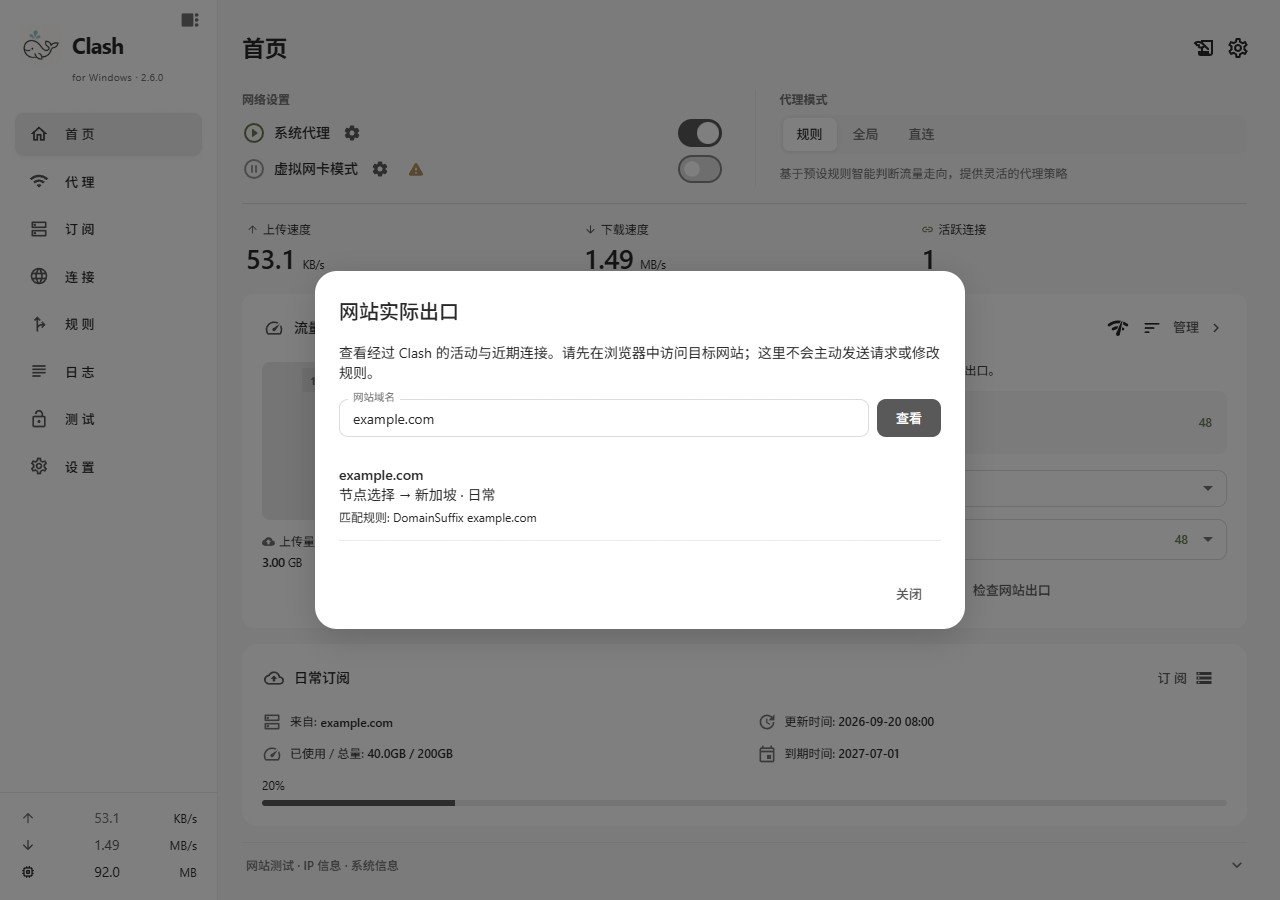
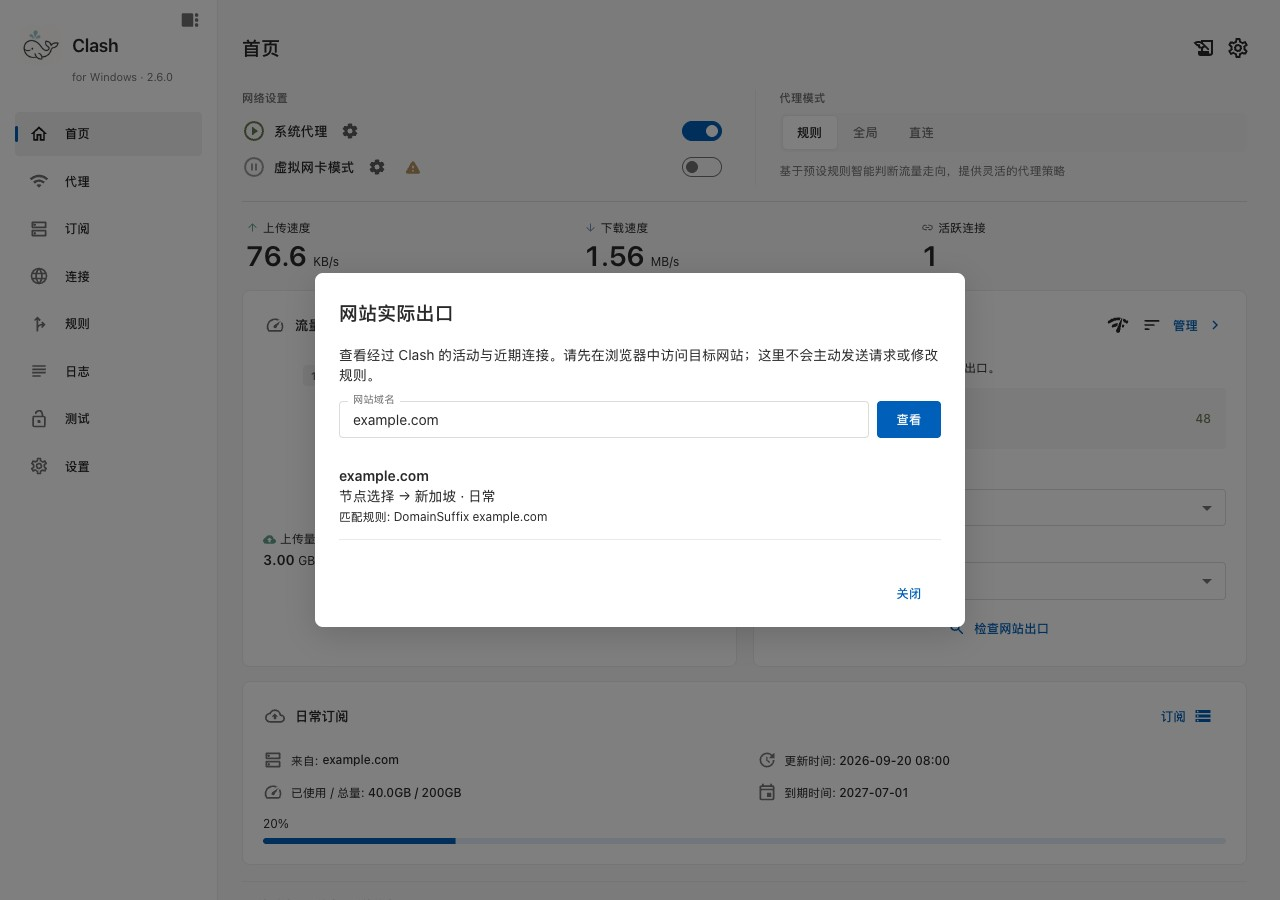
docs: refresh screenshots and docs for the Windows 11 visual pass
- Regenerate the four README/doc previews with the UI fixture runner,
  rendered as the Windows build.
- Describe the accent colour, selection pill, unified controls and the
  idle-polling/lazy-loading behaviour in README, usage and ui-design.
- Add a changelog entry and a verification record, and note how to
  render Windows screenshots from macOS.
- Scope the runner's mode-button locators: the "规则" nav label no
  longer has a space and now shares its accessible name.

diff --git a/README.md b/README.md
@@ -7,18 +7,20 @@
 
 ## Windows 2.6.0
 
-本版将仓库 `clash-mac` 分支 2.9.7 的页面设计带到 Windows：同一只线稿白鲸、同一套双白与炭黑主题，保留 Windows 原生窗口操作与现有代理能力。
+本版将仓库 `clash-mac` 分支 2.9.7 的页面设计带到 Windows：同一只线稿白鲸、同一套双白与炭黑主题，保留 Windows 原生窗口操作与现有代理能力。界面按 Windows 11 规范统一：开启、选中与主操作使用系统默认蓝色强调色，控件 4px、卡片与弹窗 8px 圆角，开关与分段控件全局一致。
 
 | 页面 | 使用体验 |
 | --- | --- |
 | 首页 | 系统代理、TUN 与路由模式置顶；实时速度、关注代理组和流量趋势组成工作台；诊断信息按需展开。 |
-| 代理 | 紧凑节点列表，切换中与选中状态明确；测速直接可用，搜索、排序和测速地址集中在更多菜单。 |
+| 代理 | 紧凑节点列表，选中节点带强调色竖条，切换中状态明确；测速直接可用，搜索、排序和测速地址集中在更多菜单。 |
 | 订阅 | 展示使用状态、流量和到期信息；高级覆写与脚本折叠收纳，原有编辑与更新功能保留。 |
 | 设置 | 通用、外观、网络、备份、高级五分类；搜索跨分类查找，Windows UWP 工具等入口继续保留。 |
 | 连接与规则 | 保持清晰表格和虚拟列表，统一工具栏、分隔线、字体与深浅色表面。 |
 | 图标与安装 | 应用、托盘、安装器、桌面与开始菜单使用统一白鲸图标；覆盖升级刷新已有快捷方式图标。 |
 
-网站出口查看只读取已有连接记录；关注的代理组不代表所有网站的出口。流量图可隐藏或切换低饱和彩色/单色，隐藏后仍显示实时速度和累计用量。
+网站出口查看只读取已有连接记录；关注的代理组不代表所有网站的出口。流量图可隐藏或切换低饱和彩色/单色，隐藏后仍显示实时速度和累计用量；上传与下载在侧栏、指标和图表中使用同一组配色。
+
+窗口隐藏到托盘时暂停界面定时刷新与实时订阅；首页以外的页面按需加载，规则列表只在规则页或诊断卡片打开时读取。
 
 快捷键：`Ctrl+,` 打开设置，`Ctrl+1–8` 按当前导航顺序切换页面，`Ctrl+B` 折叠侧栏。输入框、编辑器和弹窗内不会抢占这些快捷键。
 

diff --git a/docs/usage.md b/docs/usage.md
@@ -10,7 +10,7 @@
 
 ## 首页与快捷操作
 
-首页上方可直接切换系统代理、TUN 与规则/全局/直连模式。实时指标持续显示；窗口较窄时，关注的代理组排在流量趋势之前。底部诊断区默认折叠，展开后才加载测试、IP 与系统信息。原有首页显示偏好继续生效。
+首页上方可直接切换系统代理、TUN 与规则/全局/直连模式。实时指标持续显示；首页已显示速度与内存时，侧栏底部的速度读数自动隐藏，其他页面照常显示。窗口较窄时，关注的代理组排在流量趋势之前。底部诊断区默认折叠，展开后才加载测试、IP 与系统信息。原有首页显示偏好继续生效。
 
 “检查网站出口”只筛选已有连接记录：先访问目标网站，再输入域名查看代理链与匹配规则。没有记录不能判断为直连；该入口不会请求网站或修改规则。
 
@@ -24,7 +24,7 @@
 
 ## 状态颜色
 
-中性深灰（深色主题为浅灰）表示主要操作与当前选中；绿色表示成功或较快延迟；黄色表示警告或中等延迟；红色表示错误或较慢延迟；灰色表示未知或尚未测速。实际失败、超时判断沿用原有业务逻辑。
+蓝色强调色（Windows 11 默认强调色，深色主题为浅蓝）表示已开启、当前选中与主要操作，选中的导航和节点左侧有一条蓝色竖条；正文与图标保持中性灰。绿色表示成功或较快延迟；黄色表示警告或中等延迟；红色表示错误或较慢延迟；灰色表示未知或尚未测速。实际失败、超时判断沿用原有业务逻辑。
 
 ## 外观与无障碍
 
@@ -43,6 +43,8 @@
 **为何更新后界面恢复原版？** 自动更新配置仍属于上游。本分支目前使用自己的安装包手动更新，自有更新签名发布流程尚未建立。
 
 **为什么浏览器预览没有代理数据？** 真实数据来自 Tauri 与 Mihomo。文档截图使用明确标注的演示数据；日常运行请使用桌面版本。
+
+**窗口隐藏到托盘后还会占用资源吗？** 窗口不可见时，界面会暂停定时刷新与实时流量订阅，重新显示后自动恢复；规则列表与运行时长只在对应页面或卡片打开时才加载。需要进一步降低常驻占用时，可使用首页右上角的轻量模式。
 
 ## 首次启动时开启系统代理
 

diff --git a/docs/windows-build.md b/docs/windows-build.md
@@ -67,6 +67,14 @@ pnpm build:fast --no-open
 
 验证覆盖浅色/深色、常规/800×600 窗口和页面交互；截图保存到 `target/ui-review/`。Windows 原生窗口、安装升级、真实重启与不同系统版本需另行实机验证，浏览器预览不替代这些测试。
 
+运行器同时会重新生成 `docs/preview_light.jpg`、`preview_dark.jpg`、`preview_settings.jpg` 与 `preview_dialog.jpg`。平台由 User-Agent 与构建时的 `OS_PLATFORM` 共同判断，因此在 macOS 上运行时界面会显示 “for Mac” 并改用 ⌘ 快捷键，导致快捷键断言失败；生成文档截图需以 Windows 平台渲染（开发服务器将 `OS_PLATFORM` 设为 `"win32"`，浏览器上下文使用 Windows User-Agent）。
+
+## 视觉与性能优化验证记录（2026-10-19）
+
+- TypeScript、ESLint、knip、17 项前端测试与 5 项构建测试通过。
+- 隔离 UI 运行器全部通过（8 页 × 2 主题 × 2 尺寸，含 200% DPI 与减少动态效果），并重新生成四张文档截图；本次在 macOS 上以 Windows 平台渲染完成，未在 Windows 实机上重新验收。
+- 生产构建入口包约 603 KB（此前约 1.05 MB）。
+
 ## 2.6.0 验证记录（2026-09-20）
 
 - TypeScript、ESLint、17 项前端测试、5 项构建/ICO 测试通过，包含过期 NotRunning 快照的代理开关回归。

diff --git a/docs/ui-design.md b/docs/ui-design.md
@@ -32,6 +32,14 @@
 
 网站出口查看只筛选当前活动/近期连接，不修改规则，不发起网站请求；没有记录不能推断为直连。流量图配色为本地前端偏好，默认低饱和彩色，不修改 verge.yaml 或 Mihomo 配置格式。
 
+## 性能约定
+
+- 轮询以窗口可见性为准：WebView 在窗口隐藏到托盘后仍可能报告页面可见，因此由共享的可见性状态（`src/hooks/use-visibility.ts`）统一判断，SWR 定时刷新在不可见时跳过。
+- 全局数据提供者只保留代理视图、内核配置、系统代理与运行状态；规则、规则 Provider 与运行时长由使用它们的页面或卡片按需拉取。
+- 首页以外的页面按需加载，并在启动空闲后预取，入口包约为此前的 58%。
+- 首页的指标行与流量卡片各自只订阅需要的数据；侧栏速度读数在首页隐藏，避免同一数据三处重复渲染。
+- 不对实色背景使用 `backdrop-filter`，避免每秒刷新流量时重复合成模糊层。
+
 ## 兼容边界
 
 保留 main 的系统代理就绪检查与首次启动等待。Mac 分支的测速 URL、自动组检测、DNS、服务、更新和打包裁剪均不随界面移植。保留用户自定义主题与托盘图标的优先级。

diff --git a/Changelog.md b/Changelog.md
@@ -1,4 +1,12 @@
-# 2.6.0 · Windows 界面同步（2026-09-20）
+# 2.6.0 · Windows 11 视觉与性能优化（2026-10-19）
+
+- 采用 Windows 11 默认强调色（浅色 #005FB8，深色 #60CDFF）表示开启、选中与主操作；导航与节点选中改为左侧强调色竖条，Hover 不再比选中更深。
+- 统一控件：圆角收敛为控件 4px、卡片/菜单/弹窗 8px；字号收敛为五档；开关改为 Windows 11 样式，设置页与首页共用同一开关和分段控件。
+- 首页卡片加柔和描边，图表去掉内层灰底，图例合并为一行；代理组下拉改为上方标签，节点延迟只显示一处。
+- 上传/下载在侧栏、指标与图表统一使用流量配色；中文导航文案去除字间空格。
+- 窗口隐藏到托盘时暂停定时刷新；规则与运行时长改为按需加载；去掉无效的背景模糊；首页流量不再三处重复订阅；非首页页面懒加载，入口包由约 1.05 MB 降至 603 KB。
+
+## 2.6.0 · Windows 界面同步（2026-09-20）
 
 - 沿用 clash-mac 2.9.7 的双白/炭黑主题、紧凑侧栏、线稿白鲸与浅蓝水花 Logo。
 - 首页调整为连接控制、实时指标、代理组/趋势工作区、订阅摘要与折叠诊断。
